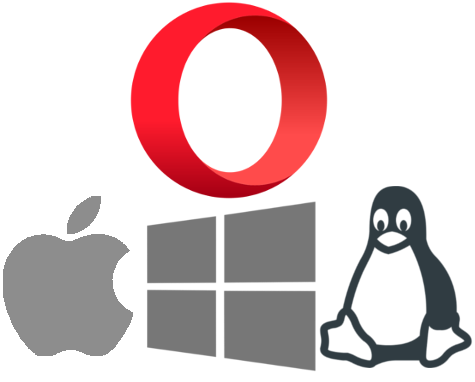
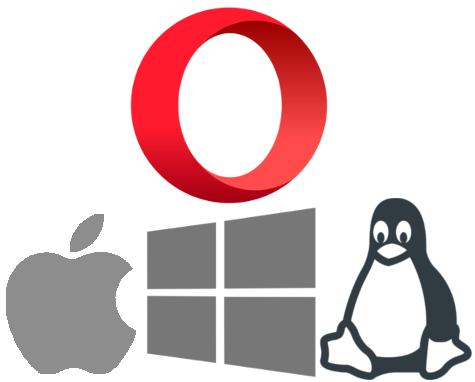
Adjustements in css padding-top

diff --git a/index.html b/index.html
@@ -62,8 +62,8 @@
                                 <div class="column"><h3  class="title is-5">Ver guía de instalación</h3></div>
                             </div>    
                             <div class="level" style="padding-top:1rem">
-                                <p class="level-item has-text-centered" >
-                                    <a href="install.html#opera" class="link is-info"><img src="assets/browsers/opera_and_os.png" alt="" style="height:9rem;width:12rem"></a>
+                                <p class="level-item has-text-centered" style="padding-top:0.5rem">
+                                            <a href="install.html#opera" class="link is-info"><img src="assets/browsers/opera_and_os.png" alt="" style="height:9rem;width:11rem"></a>
                                 </p>
                                 <p class="level-item has-text-centered">
                                   <a href="install.html#chrome" class="link is-info"><img src="assets/browsers/chrome_and_os.png" alt="" style="height:9rem;width:5rem"></a>
